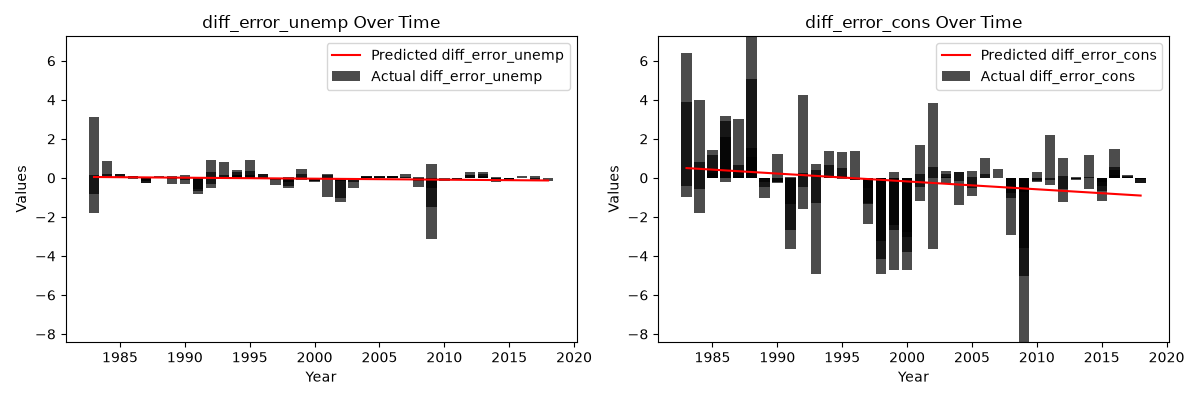
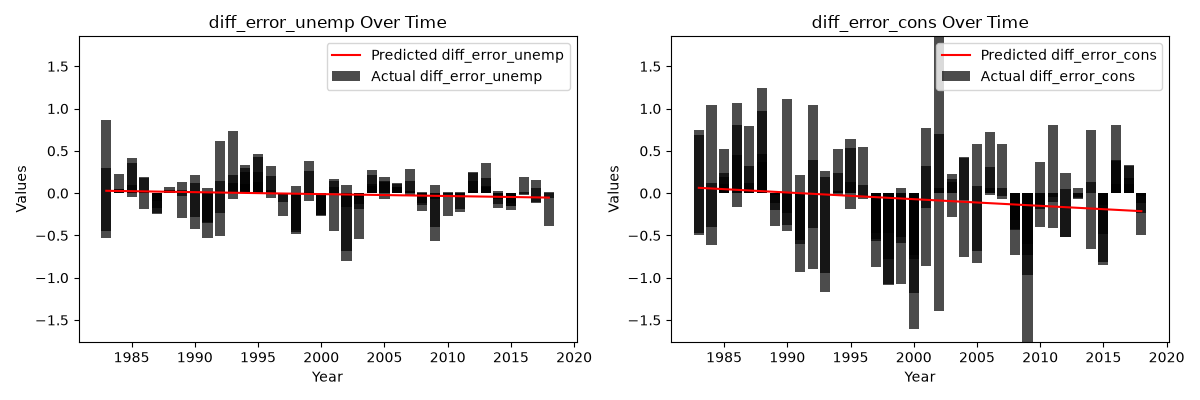
diff_abse_reg.py: regress the difference in absolute errors, as named
The script read data/output/errors.csv, the squared errors from
code/other/compute_errors.py, so results/diff_abse_reg_*.txt and
figures/diff_abse_reg_*.png duplicated the diff_sqe_reg_* outputs. It now
reads data/output/abs_errors.csv (from code/main/compute_abs_error.py),
which has the same columns, and the results are regenerated for both
samples. No slide or document quotes these results.

The trend in GB minus SPF absolute error, per year (HC3 standard errors):

                    1983 on             1995 on
  unemployment   -0.0023 (p=0.26)    -0.0010 (p=0.78)
  consumption    -0.0079 (p=0.07)    +0.0114 (p=0.16)

The squared-error version had shown -0.040 (p=0.01) for consumption from
1983; that result is still in results/diff_sqe_reg_1983.txt.

The README's "Known issues" section described only this problem and is
removed. ./reproduce.sh reproduces all 36 outputs.

diff --git a/code/other/diff_abse_reg.py b/code/other/diff_abse_reg.py
@@ -5,7 +5,7 @@ from statsmodels.stats.stattools import durbin_watson
 import os
 import sys
 
-abs_errors = pd.read_csv('data/output/errors.csv')
+abs_errors = pd.read_csv('data/output/abs_errors.csv')
 
 # Convert the "date" column to datetime if not already in datetime format
 abs_errors['date'] = pd.to_datetime(abs_errors['date'])
@@ -20,7 +20,7 @@ data = abs_errors.iloc[sample_size:, [1] + list(range(-6, 0))]
 # Create a constant term for the regression
 data['Constant'] = 1
 
-# List of squared error column names to perform regressions on
+# GB absolute error minus SPF absolute error, for each variable
 diff_abse_cols = ["diff_error_unemp","diff_error_cons"]
 
 # Extract year and quarter as separate variables
@@ -34,7 +34,7 @@ fig, axes = plt.subplots(1, 2, figsize=(12, 4))
 output_dir = 'results'
 summary_text = ""
 
-# Loop through the squared error columns
+# Loop through the absolute-error differences
 for i, diff_abse_col in enumerate(diff_abse_cols):
     model = sm.OLS(data[diff_abse_col], data[['Constant', 'Year_d']])
     results = model.fit(cov_type="HC3")

diff --git a/README.md b/README.md
@@ -252,13 +252,6 @@ about/            the conference agenda and invitation
 After changing parameters, `code/main/reproduce.py --no-verify` reruns the
 pipeline without comparing against the committed outputs.
 
-## Known issues
-
-`code/other/diff_abse_reg.py` reads `data/output/errors.csv`, which holds
-squared errors, so its results duplicate those of `diff_sqe_reg.py`. The
-committed `results/diff_abse_reg_*.txt` were produced this way, so the script
-is kept as it is.
-
 ## License and citation
 
 The code is licensed under the Apache License 2.0 (`LICENSE`); `NOTICE` lists
